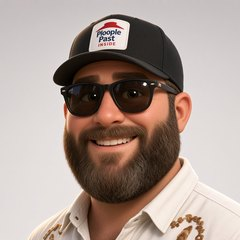
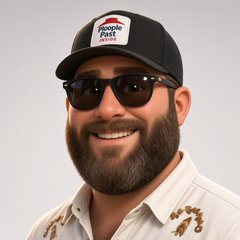
Card tab: remove Drive Used buttons; new Alex O'Brian headshot
Claude-Session: https://claude.ai/code/session_012foNeDA3duDz9NkRjY6C7c

Changed region(s): [[0.1167, 0.0292, 0.9333, 1.0], [0.9042, 0.7875, 0.9917, 0.8458], [0.9917, 0.8167, 1.0, 0.8458]]

diff --git a/index.html b/index.html
@@ -480,12 +480,6 @@
         <div class="quick" id="quick"></div>
         <div class="sub">
           <div class="sub-row">
-            <span class="sub-lbl">Drive used</span>
-            <button class="toggle" data-drive="0" id="drv0"></button>
-            <button class="toggle" data-drive="1" id="drv1"></button>
-            <span class="muted" id="drvCount" style="margin-left:auto"></span>
-          </div>
-          <div class="sub-row">
             <span class="sub-lbl">Mulligan</span>
             <button class="toggle" data-mull="0" id="mul0"></button>
             <button class="toggle" data-mull="1" id="mul1"></button>
@@ -1145,13 +1139,6 @@ function renderHole(){
   });
 
   const t=teamOf(myTeam)||{a:'P1',b:'P2'};
-  [0,1].forEach(i=>{
-    const el=document.getElementById('drv'+i);
-    el.textContent=first(i===0?t.a:t.b);
-    el.classList.toggle('on',card.d[hole]===i);
-  });
-  document.getElementById('drvCount').textContent =
-    `${first(t.a)} ${card.d.filter(x=>x===0).length} · ${first(t.b)} ${card.d.filter(x=>x===1).length}`;
   [0,1].forEach(i=>{
     const el=document.getElementById('mul'+i), nm=first(i===0?t.a:t.b);
     el.textContent = card.m[i] ? `${nm} used` : `${nm} available`;
@@ -2248,10 +2235,6 @@ function openLightbox(src,cap){
   document.getElementById('lbCap').textContent=cap||'';
   document.getElementById('lightbox').classList.add('on');
 }
-document.querySelectorAll('[data-drive]').forEach(b=>b.onclick=()=>{
-  if(isFinal()) return toast('Year is locked');
-  const i=+b.dataset.drive; card.d[hole]=card.d[hole]===i?null:i; queueSave(); renderHole();
-});
 document.querySelectorAll('[data-mull]').forEach(b=>b.onclick=()=>{
   if(isFinal()) return toast('Year is locked');
   const i=+b.dataset.mull; card.m[i]=!card.m[i]; queueSave(); renderHole();

diff --git a/README.md b/README.md
@@ -6,7 +6,7 @@ A single static HTML file. No build step, no dependencies, no framework. Open `i
 
 ## What it does
 
-- **Card** — hole-by-hole scramble scoring, one gross score per hole, with drive-used and mulligan tracking per player
+- **Card** — hole-by-hole scramble scoring, one gross score per hole, with mulligan tracking per player
 - **Board** — live leaderboard across the field, ties broken by regression on hole handicap
 - **Prizes** — four closest-to-the-pin holes, long drive, putting contest
 - **Cup** — champions by year, record book, format, course card, pairings
